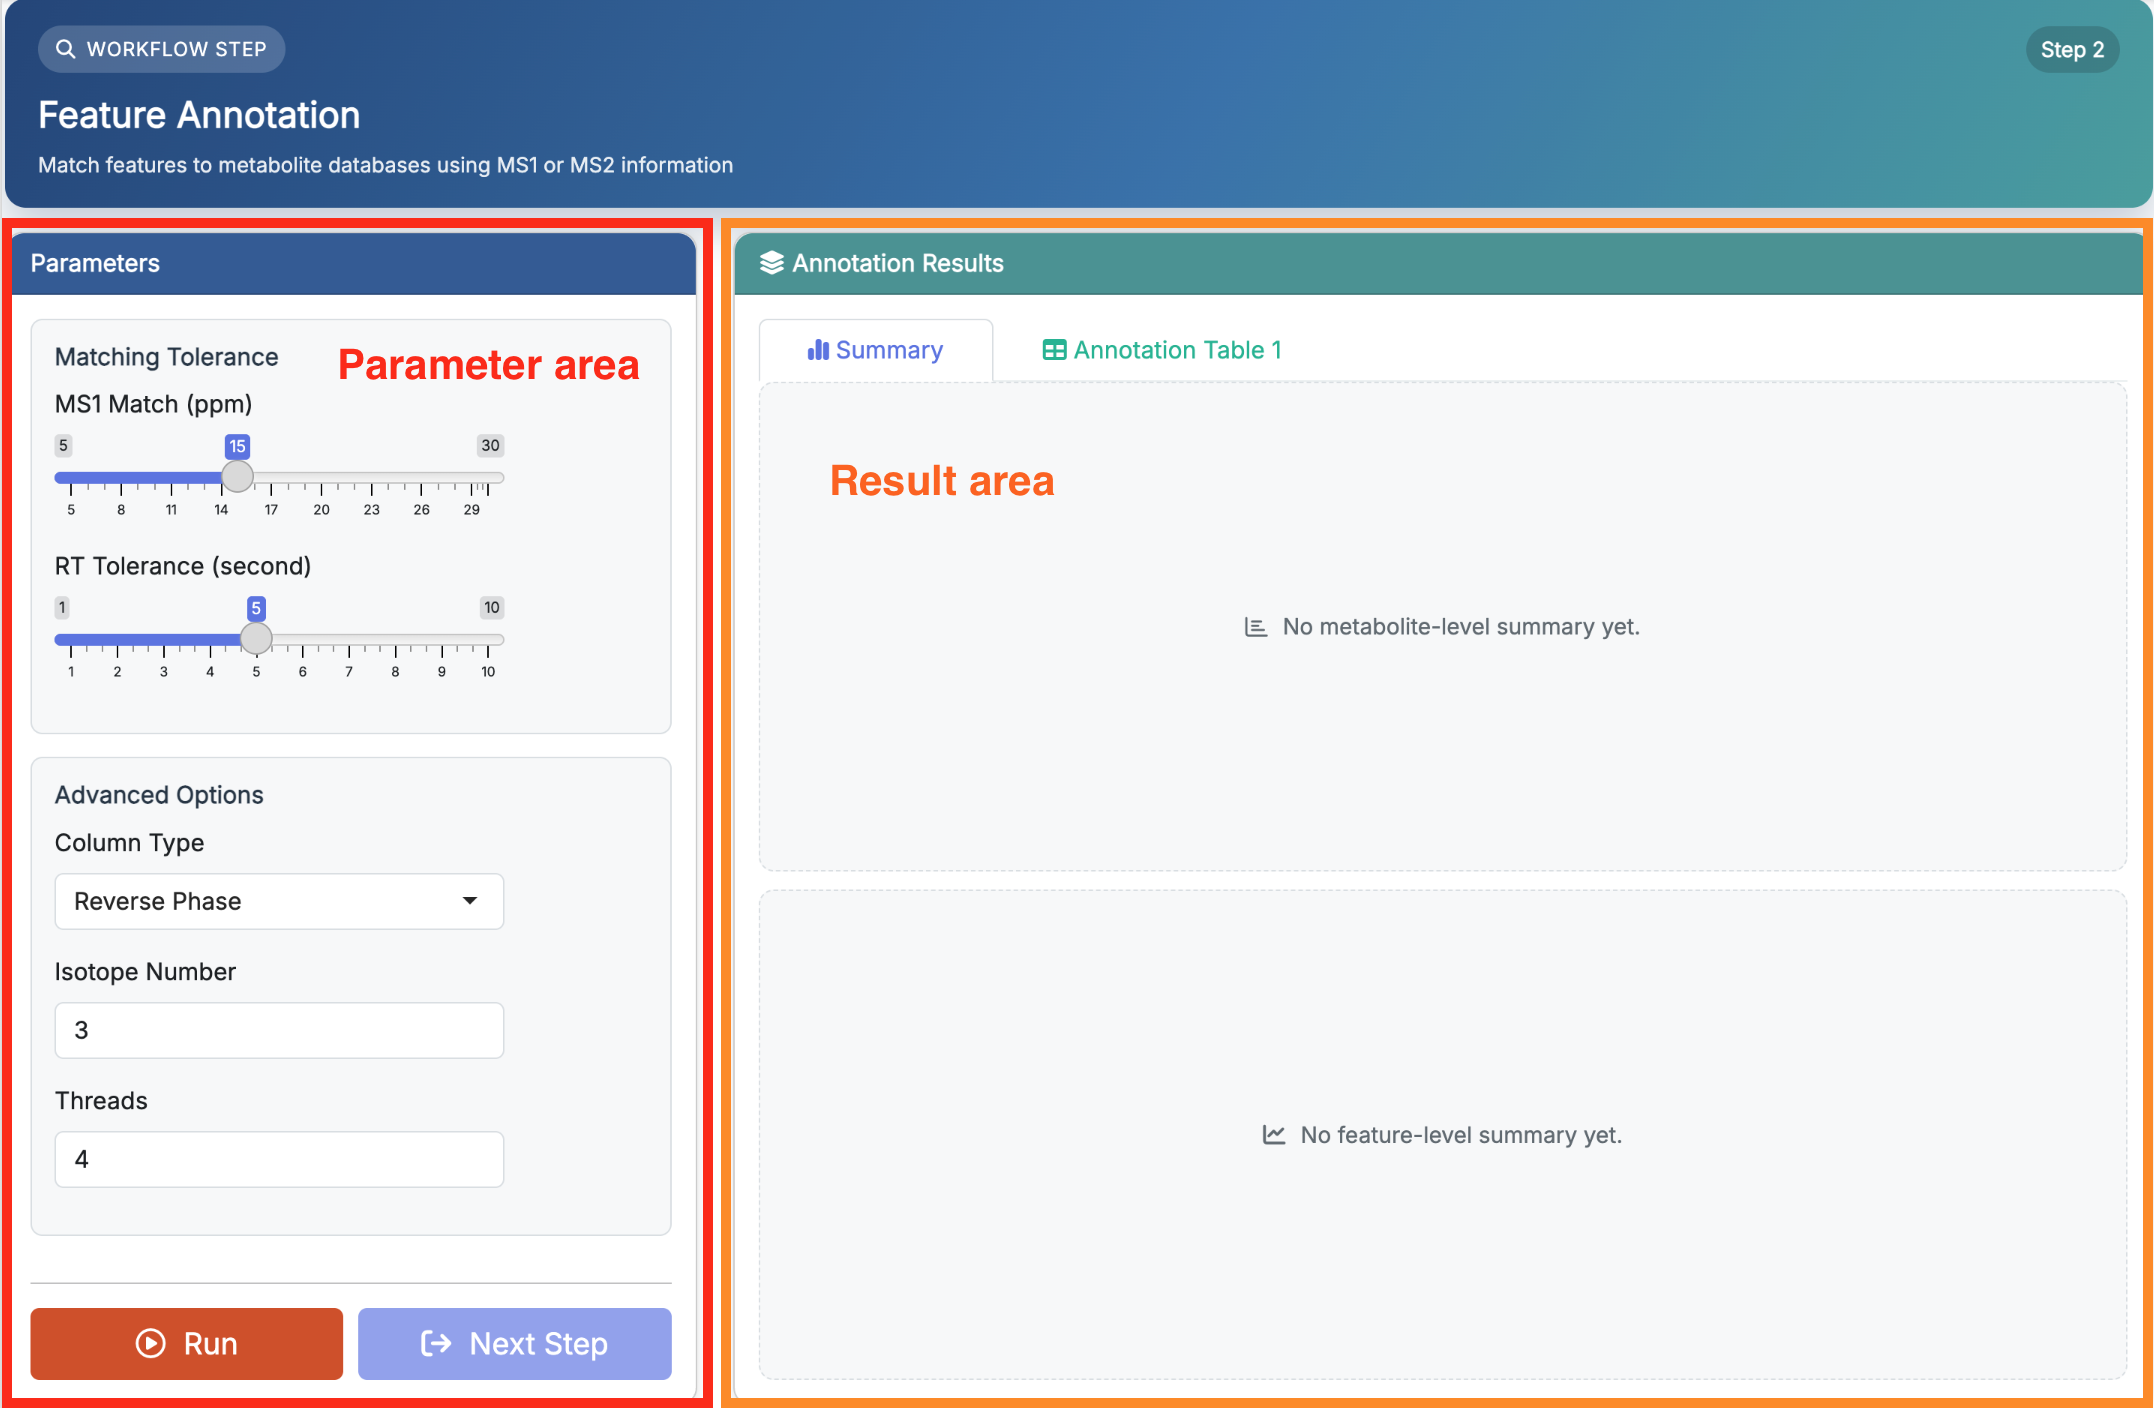
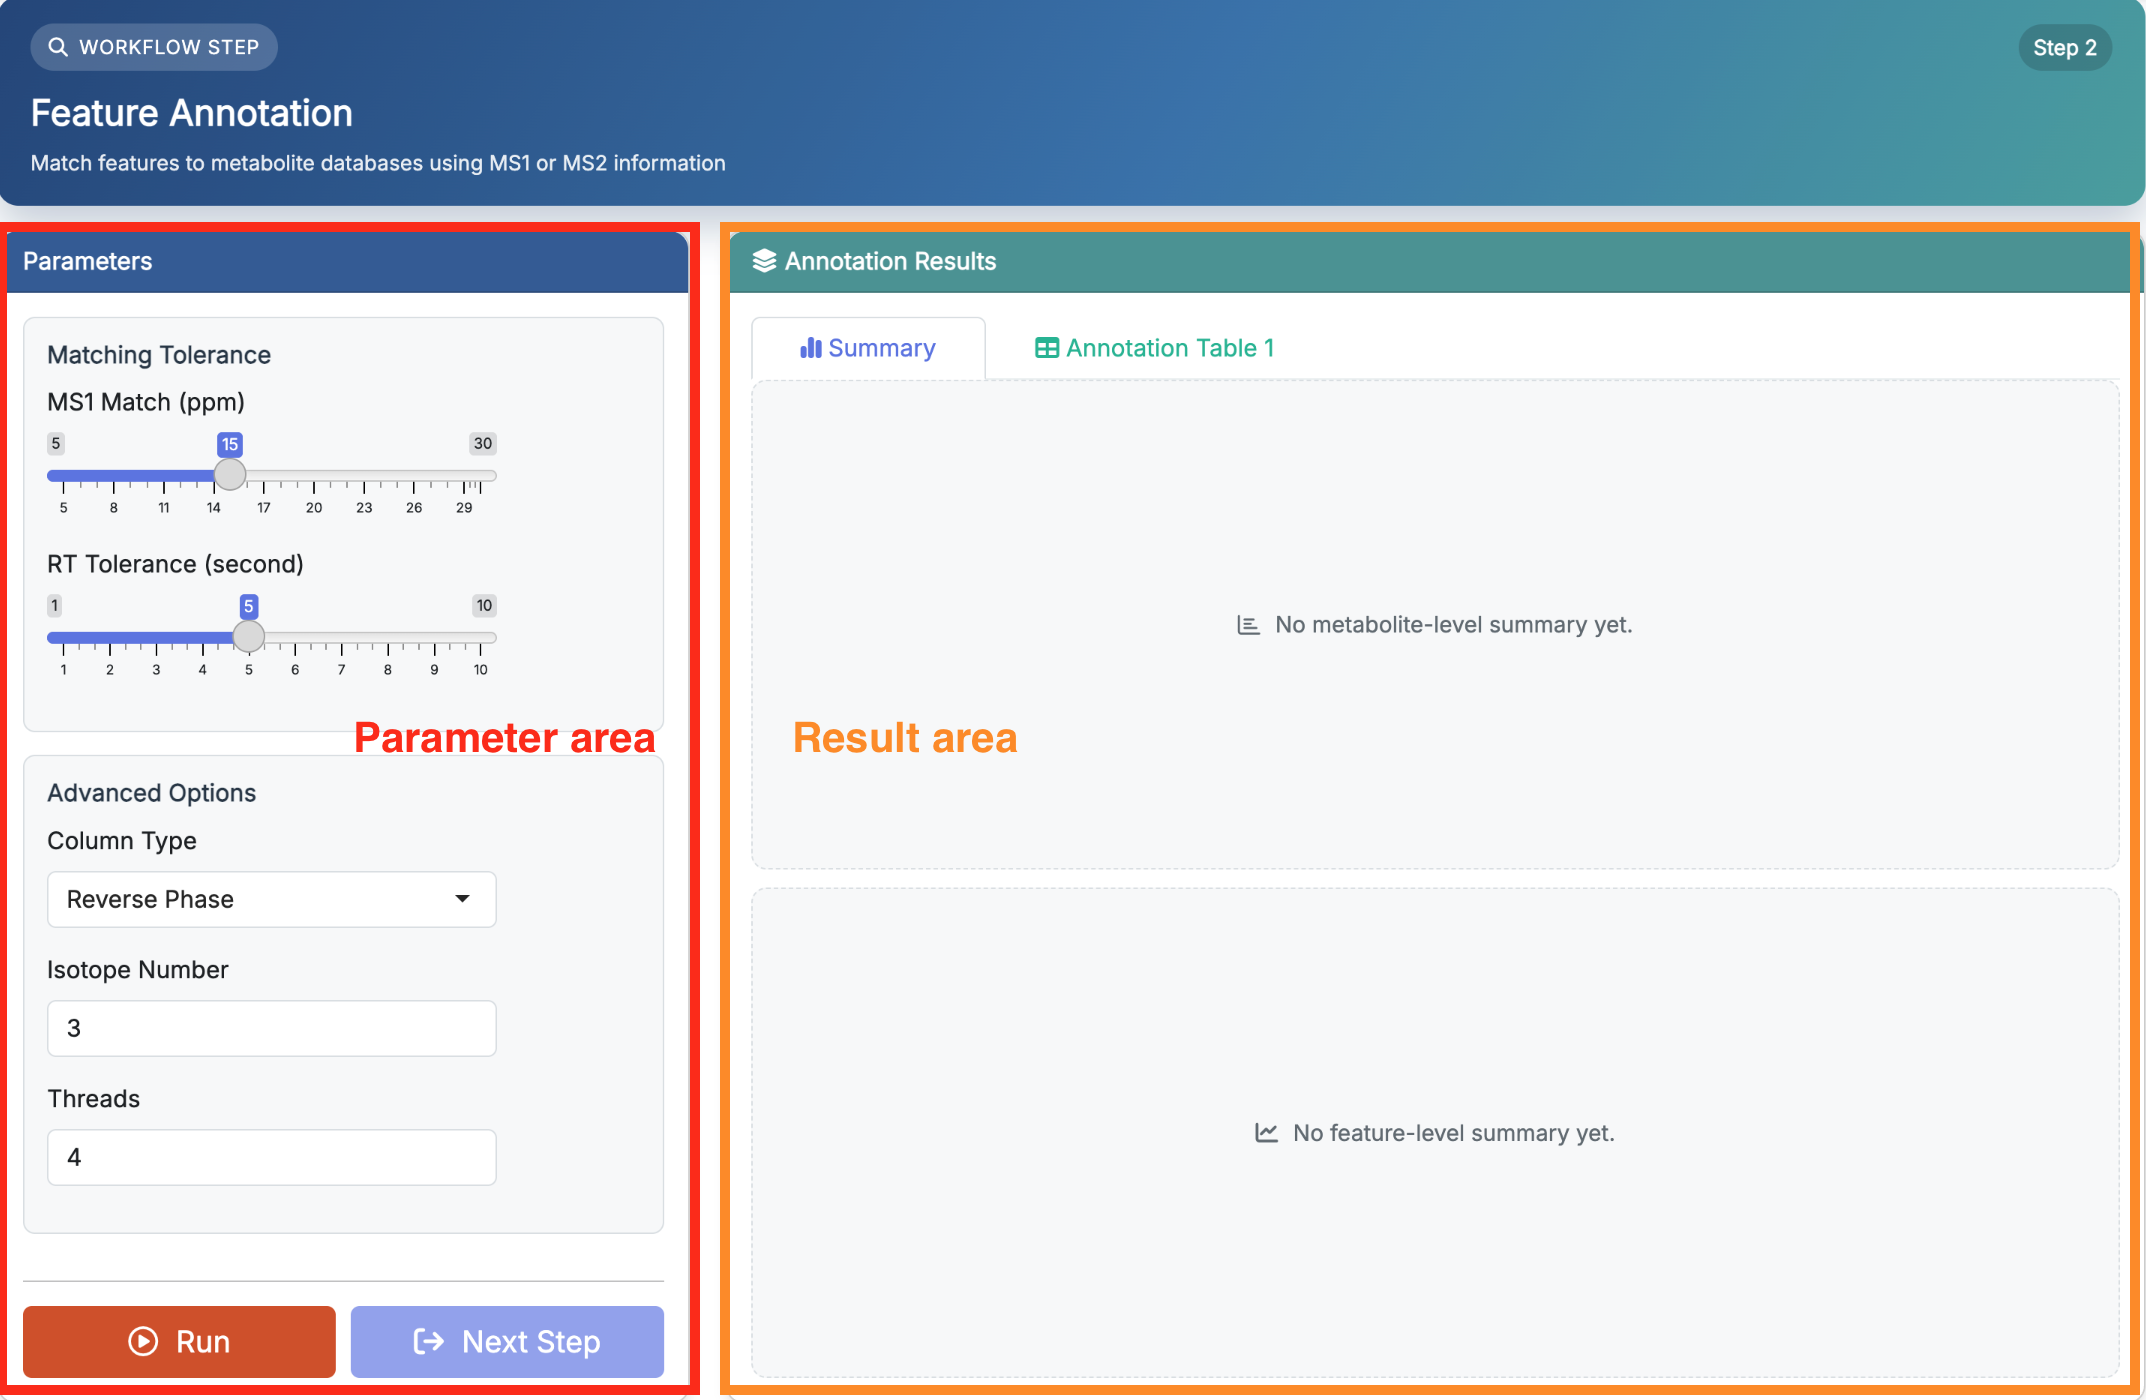
finish

diff --git a/docs/01_package_installation.html b/docs/01_package_installation.html
@@ -436,8 +436,14 @@ pre > code.sourceCode > span > a:first-child::before { text-decoration: underlin
 </nav>
 <div id="quarto-sidebar-glass" class="quarto-sidebar-collapse-item" data-bs-toggle="collapse" data-bs-target=".quarto-sidebar-collapse-item"></div>
 <!-- margin-sidebar -->
-    <div id="quarto-margin-sidebar" class="sidebar margin-sidebar zindex-bottom">
-        
+    <div id="quarto-margin-sidebar" class="sidebar margin-sidebar">
+        <nav id="TOC" role="doc-toc" class="toc-active">
+    <h2 id="toc-title">Table of contents</h2>
+   
+  <ul>
+  <li><a href="#next-step" id="toc-next-step" class="nav-link active" data-scroll-target="#next-step"><span class="header-section-number">1.1</span> Next Step</a></li>
+  </ul>
+<div class="toc-actions"><ul><li><a href="https://github.com/tidymass/featuremap_tutorial/edit/main/01_package_installation.qmd" class="toc-action"><i class="bi bi-github"></i>Edit this page</a></li><li><a href="https://github.com/tidymass/featuremap_tutorial/issues/new" class="toc-action"><i class="bi empty"></i>Report an issue</a></li><li><a href="https://github.com/tidymass/featuremap_tutorial/blob/main/01_package_installation.qmd" class="toc-action"><i class="bi empty"></i>View source</a></li></ul></div></nav>
     </div>
 <!-- main -->
 <main class="content" id="quarto-document-content">
@@ -502,9 +508,12 @@ pre > code.sourceCode > span > a:first-child::before { text-decoration: underlin
 <div class="cell">
 <div class="code-copy-outer-scaffold"><div class="sourceCode cell-code" id="cb4"><pre class="sourceCode r code-with-copy"><code class="sourceCode r"><span id="cb4-1"><a href="#cb4-1" aria-hidden="true" tabindex="-1"></a><span class="fu">packageVersion</span>(<span class="st">"featuremap"</span>)</span></code></pre></div><button title="Copy to Clipboard" class="code-copy-button"><i class="bi"></i></button></div>
 </div>
-<p>If all checks pass, continue to the next chapter.</p>
+<section id="next-step" class="level2" data-number="1.1">
+<h2 data-number="1.1" class="anchored" data-anchor-id="next-step"><span class="header-section-number">1.1</span> Next Step</h2>
+<p>If all checks pass, continue to <a href="./02_data_preparation.html">Data Preparation</a> to prepare the input tables for the FeatureMAP workflow.</p>
 
 
+</section>
 
 </main> <!-- /main -->
 <script id="quarto-html-after-body" type="application/javascript">
@@ -937,4 +946,4 @@ pre > code.sourceCode > span > a:first-child::before { text-decoration: underlin
 
 
 
-<footer class="footer"><div class="nav-footer"><div class="nav-footer-center"><div class="toc-actions"><ul><li><a href="https://github.com/tidymass/featuremap_tutorial/edit/main/01_package_installation.qmd" class="toc-action"><i class="bi bi-github"></i>Edit this page</a></li><li><a href="https://github.com/tidymass/featuremap_tutorial/issues/new" class="toc-action"><i class="bi empty"></i>Report an issue</a></li><li><a href="https://github.com/tidymass/featuremap_tutorial/blob/main/01_package_installation.qmd" class="toc-action"><i class="bi empty"></i>View source</a></li></ul></div></div></div></footer></body></html>
+<footer class="footer"><div class="nav-footer"><div class="nav-footer-center"><div class="toc-actions d-sm-block d-md-none"><ul><li><a href="https://github.com/tidymass/featuremap_tutorial/edit/main/01_package_installation.qmd" class="toc-action"><i class="bi bi-github"></i>Edit this page</a></li><li><a href="https://github.com/tidymass/featuremap_tutorial/issues/new" class="toc-action"><i class="bi empty"></i>Report an issue</a></li><li><a href="https://github.com/tidymass/featuremap_tutorial/blob/main/01_package_installation.qmd" class="toc-action"><i class="bi empty"></i>View source</a></li></ul></div></div></div></footer></body></html>

diff --git a/docs/02_data_preparation.html b/docs/02_data_preparation.html
@@ -449,6 +449,7 @@ pre > code.sourceCode > span > a:first-child::before { text-decoration: underlin
   <li><a href="#load-demo-data" id="toc-load-demo-data" class="nav-link" data-scroll-target="#load-demo-data"><span class="header-section-number">2.2</span> Load Demo Data</a></li>
   <li><a href="#prepare-your-own-data" id="toc-prepare-your-own-data" class="nav-link" data-scroll-target="#prepare-your-own-data"><span class="header-section-number">2.3</span> Prepare Your Own Data</a></li>
   <li><a href="#pre-run-checklist" id="toc-pre-run-checklist" class="nav-link" data-scroll-target="#pre-run-checklist"><span class="header-section-number">2.4</span> Pre-run Checklist</a></li>
+  <li><a href="#next-step" id="toc-next-step" class="nav-link" data-scroll-target="#next-step"><span class="header-section-number">2.5</span> Next Step</a></li>
   </ul>
 <div class="toc-actions"><ul><li><a href="https://github.com/tidymass/featuremap_tutorial/edit/main/02_data_preparation.qmd" class="toc-action"><i class="bi bi-github"></i>Edit this page</a></li><li><a href="https://github.com/tidymass/featuremap_tutorial/issues/new" class="toc-action"><i class="bi empty"></i>Report an issue</a></li><li><a href="https://github.com/tidymass/featuremap_tutorial/blob/main/02_data_preparation.qmd" class="toc-action"><i class="bi empty"></i>View source</a></li></ul></div></nav>
     </div>
@@ -609,7 +610,10 @@ Note
 <span id="cb3-11"><a href="#cb3-11" aria-hidden="true" tabindex="-1"></a><span class="fu">sum</span>(<span class="fu">is.na</span>(feature_table[, required_cols]))</span>
 <span id="cb3-12"><a href="#cb3-12" aria-hidden="true" tabindex="-1"></a><span class="co"># ideally 0 for required fields</span></span></code></pre></div><button title="Copy to Clipboard" class="code-copy-button"><i class="bi"></i></button></div>
 </div>
-<p>Once your input tables are ready, continue to next step.</p>
+</section>
+<section id="next-step" class="level2" data-number="2.5">
+<h2 data-number="2.5" class="anchored" data-anchor-id="next-step"><span class="header-section-number">2.5</span> Next Step</h2>
+<p>Once your input tables are ready, continue to <a href="./03_feature_annotation.html">Feature Annotation</a> to generate the first-round metabolite annotation results.</p>
 
 
 </section>

diff --git a/docs/03_feature_annotation.html b/docs/03_feature_annotation.html
@@ -450,6 +450,7 @@ pre > code.sourceCode > span > a:first-child::before { text-decoration: underlin
   <li><a href="#feature-to-metabolite-annotation-table" id="toc-feature-to-metabolite-annotation-table" class="nav-link" data-scroll-target="#feature-to-metabolite-annotation-table"><span class="header-section-number">3.5.1</span> Feature-to-metabolite annotation table</a></li>
   <li><a href="#annotation-redundancy-summary" id="toc-annotation-redundancy-summary" class="nav-link" data-scroll-target="#annotation-redundancy-summary"><span class="header-section-number">3.5.2</span> Annotation redundancy summary</a></li>
   </ul></li>
+  <li><a href="#next-step" id="toc-next-step" class="nav-link" data-scroll-target="#next-step"><span class="header-section-number">3.6</span> Next Step</a></li>
   </ul>
 <div class="toc-actions"><ul><li><a href="https://github.com/tidymass/featuremap_tutorial/edit/main/03_feature_annotation.qmd" class="toc-action"><i class="bi bi-github"></i>Edit this page</a></li><li><a href="https://github.com/tidymass/featuremap_tutorial/issues/new" class="toc-action"><i class="bi empty"></i>Report an issue</a></li><li><a href="https://github.com/tidymass/featuremap_tutorial/blob/main/03_feature_annotation.qmd" class="toc-action"><i class="bi empty"></i>View source</a></li></ul></div></nav>
     </div>
@@ -697,10 +698,13 @@ Note
 <li><p><code>mfc_per_metabolite</code>: the average number of metabolite feature clusters (MFCs) assigned to each metabolite candidate.</p></li>
 <li><p><code>metabolite_per_feature</code>: the average number of metabolite candidates assigned to each LC–MS feature.</p></li>
 </ul>
-<p>Once feature annotation is complete, continue to next step.</p>
-
-
 </section>
+</section>
+<section id="next-step" class="level2" data-number="3.6">
+<h2 data-number="3.6" class="anchored" data-anchor-id="next-step"><span class="header-section-number">3.6</span> Next Step</h2>
+<p>Once feature annotation is complete, continue to <a href="./04_pcsf_subnetwork.html">Subnetwork Extraction</a> to refine annotations with network context and extract the metabolic subnetwork.</p>
+
+
 </section>
 
 </main> <!-- /main -->

diff --git a/docs/04_pcsf_subnetwork.html b/docs/04_pcsf_subnetwork.html
@@ -451,6 +451,7 @@ pre > code.sourceCode > span > a:first-child::before { text-decoration: underlin
   <li><a href="#network-refined-annotation-table" id="toc-network-refined-annotation-table" class="nav-link" data-scroll-target="#network-refined-annotation-table"><span class="header-section-number">4.5.2</span> Network-refined annotation table</a></li>
   <li><a href="#other-result-components" id="toc-other-result-components" class="nav-link" data-scroll-target="#other-result-components"><span class="header-section-number">4.5.3</span> Other Result Components</a></li>
   </ul></li>
+  <li><a href="#next-step" id="toc-next-step" class="nav-link" data-scroll-target="#next-step"><span class="header-section-number">4.6</span> Next Step</a></li>
   </ul>
 <div class="toc-actions"><ul><li><a href="https://github.com/tidymass/featuremap_tutorial/edit/main/04_pcsf_subnetwork.qmd" class="toc-action"><i class="bi bi-github"></i>Edit this page</a></li><li><a href="https://github.com/tidymass/featuremap_tutorial/issues/new" class="toc-action"><i class="bi empty"></i>Report an issue</a></li><li><a href="https://github.com/tidymass/featuremap_tutorial/blob/main/04_pcsf_subnetwork.qmd" class="toc-action"><i class="bi empty"></i>View source</a></li></ul></div></nav>
     </div>
@@ -690,10 +691,13 @@ Important
 <li><code>res$edge_frequency</code>: edge appearance frequency across repeated runs</li>
 <li><code>res$tuning_grid</code>, <code>res$tuning_best</code>: available when grid tuning is used</li>
 </ul>
-<p>Once subnetwork extraction is complete, continue to next step.</p>
-
-
 </section>
+</section>
+<section id="next-step" class="level2" data-number="4.6">
+<h2 data-number="4.6" class="anchored" data-anchor-id="next-step"><span class="header-section-number">4.6</span> Next Step</h2>
+<p>Once subnetwork extraction is complete, continue to <a href="./05_module_identification.html">Module Identification</a> to detect connected functional modules from the extracted network.</p>
+
+
 </section>
 
 </main> <!-- /main -->

diff --git a/docs/05_module_identification.html b/docs/05_module_identification.html
@@ -450,6 +450,7 @@ pre > code.sourceCode > span > a:first-child::before { text-decoration: underlin
   <li><a href="#module-membership-table" id="toc-module-membership-table" class="nav-link" data-scroll-target="#module-membership-table"><span class="header-section-number">5.5.1</span> Module membership table</a></li>
   <li><a href="#module-significance-table" id="toc-module-significance-table" class="nav-link" data-scroll-target="#module-significance-table"><span class="header-section-number">5.5.2</span> Module significance table</a></li>
   </ul></li>
+  <li><a href="#next-step" id="toc-next-step" class="nav-link" data-scroll-target="#next-step"><span class="header-section-number">5.6</span> Next Step</a></li>
   </ul>
 <div class="toc-actions"><ul><li><a href="https://github.com/tidymass/featuremap_tutorial/edit/main/05_module_identification.qmd" class="toc-action"><i class="bi bi-github"></i>Edit this page</a></li><li><a href="https://github.com/tidymass/featuremap_tutorial/issues/new" class="toc-action"><i class="bi empty"></i>Report an issue</a></li><li><a href="https://github.com/tidymass/featuremap_tutorial/blob/main/05_module_identification.qmd" class="toc-action"><i class="bi empty"></i>View source</a></li></ul></div></nav>
     </div>
@@ -735,10 +736,13 @@ Tip
 <p>If too many tiny modules appear, increase <code>min_size</code> or tighten <code>node_freq</code>. If modules are too coarse, try alternative methods or relax these cutoffs.</p>
 </div>
 </div>
-<p>Once modules are identified, continue to next step.</p>
-
-
 </section>
+</section>
+<section id="next-step" class="level2" data-number="5.6">
+<h2 data-number="5.6" class="anchored" data-anchor-id="next-step"><span class="header-section-number">5.6</span> Next Step</h2>
+<p>Once modules are identified, continue to <a href="./06_function_annotation.html">Function Annotation</a> to interpret significant modules in biological terms.</p>
+
+
 </section>
 
 </main> <!-- /main -->

diff --git a/docs/06_function_annotation.html b/docs/06_function_annotation.html
@@ -820,6 +820,7 @@ Note
 <section id="next-step" class="level2" data-number="6.7">
 <h2 data-number="6.7" class="anchored" data-anchor-id="next-step"><span class="header-section-number">6.7</span> Next Step</h2>
 <p>Module annotation is the last step of the current R-package tutorial workflow. If needed, you can next inspect <code>res$module_function</code> and the PubMed evidence tables for downstream reporting or visualization.</p>
+<p>If you want to continue with the interactive interface, move to <a href="./10_shinyapp_installation.html">Shiny App Installation</a> to start the Shiny tutorial.</p>
 
 
 </section>
